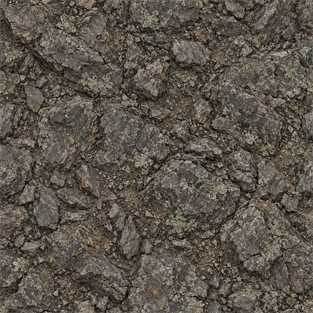
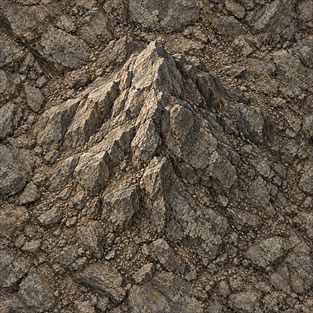
rock sprit change by montain

diff --git a/src/main/resources/static/app.js b/src/main/resources/static/app.js
@@ -5,7 +5,7 @@ const pixiApp = new PIXI.Application();
 await pixiApp.init({ preference:'webgl', resizeTo:viewport, backgroundAlpha:0, antialias:true, autoDensity:true, resolution:window.devicePixelRatio || 1, autoStart:false });
 viewport.appendChild(pixiApp.canvas);
 const canvas = pixiApp.canvas;
-const assets = Object.fromEntries(await Promise.all(Object.entries({ grass:'/assets/terrain-grass.png', rock:'/assets/terrain-rock.png', tree:'/assets/terrain-tree.png', food:'/assets/food-cache.png', sheep:'/assets/sheep.png', peon:'/assets/peon-topdown.png', grave:'/assets/grave.png', house:'/assets/house.png', woodBundle:'/assets/wood-bundle.png' }).map(async ([name, source]) => [name, await PIXI.Assets.load(source)])));
+const assets = Object.fromEntries(await Promise.all(Object.entries({ grass:'/assets/terrain-grass.png', rock:'/assets/terrain-rock.png?v=20261011-2', tree:'/assets/terrain-tree.png', food:'/assets/food-cache.png', sheep:'/assets/sheep.png', peon:'/assets/peon-topdown.png', grave:'/assets/grave.png', house:'/assets/house.png', woodBundle:'/assets/wood-bundle.png' }).map(async ([name, source]) => [name, await PIXI.Assets.load(source)])));
 const animationState = { peons:new Map(), animations:[], frame:null, generation:0, reducedMotion:window.matchMedia('(prefers-reduced-motion: reduce)').matches };
 
 function resetView() {

diff --git a/src/main/resources/static/index.html b/src/main/resources/static/index.html
@@ -148,6 +148,6 @@
 </dialog>
 
 <script src="/vendor/pixi.min.js?v=8.22.0"></script>
-<script type="module" src="/app.js?v=20261011-32"></script>
+<script type="module" src="/app.js?v=20261011-33"></script>
 </body>
 </html>
